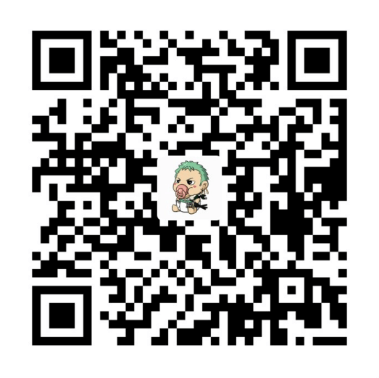
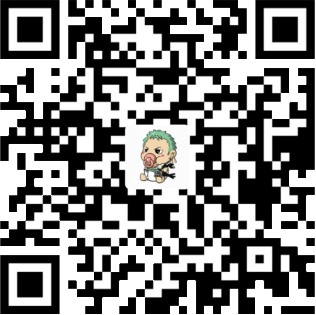
ui调整

diff --git a/css/index.css b/css/index.css
@@ -1,6 +1,22 @@
+* {
+  margin: 0;
+  padding: 0;
+}
+
+html,
+body {
+  height: 100%;
+}
+
+body {
+  padding: 20px;
+  box-sizing: border-box;
+  background: linear-gradient(to right, #D7E6F2, #fff)
+}
+
 #content {
   position: absolute;
-  width: 380px;
+  width: 340px;
   height: 250px;
   top: 50%;
   left: 50%;
@@ -8,12 +24,14 @@
 }
 .img-wrap {
   position: relative;
+  top: 10px;
 }
 
 .msg {
   text-align: center;
 }
-.cola {
+
+/* .cola {
   position: absolute;
   top: -17px;
   right: 62px;
@@ -23,7 +41,7 @@
   position: absolute;
   top: 16px;
   right: 26px;
-}
+} */
 
 .btn-wrap {
   overflow: hidden;

diff --git a/de-weighting.html b/de-weighting.html
@@ -27,7 +27,7 @@
     <!-- <p>富婆~~~ 您还可以赞助一杯冰阔落~~~ 给您鞠个躬先~~~</p> -->
     <p class="msg">打钱~~~ 用一次打一次的那种打~~~</p>
     <div class="img-wrap">
-      <img src="./images/code.png" width="200" alt="收款码">
+      <img src="./images/code.png" width="166" alt="收款码">
       <!-- <img src="./images/IMG_1477.JPG" width="200" alt="冰阔落~" class="cola"> -->
       <img src="./images/cat.jpg" width="166" alt="cat~" class="cat">
     </div>

diff --git a/index.html b/index.html
@@ -27,7 +27,7 @@
     <!-- <p>富婆~~~ 您还可以赞助一杯冰阔落~~~ 给您鞠个躬先~~~</p> -->
     <p class="msg">打钱~~~ 用一次打一次的那种打~~~</p>
     <div class="img-wrap">
-      <img src="./images/code.png" width="200" alt="收款码">
+      <img src="./images/code.png" width="166" alt="收款码">
       <!-- <img src="./images/IMG_1477.JPG" width="200" alt="冰阔落~" class="cola"> -->
       <img src="./images/cat.jpg" width="166" alt="cat~" class="cat">
     </div>

diff --git a/intercept.html b/intercept.html
@@ -27,7 +27,7 @@
     <!-- <p>富婆~~~ 您还可以赞助一杯冰阔落~~~ 给您鞠个躬先~~~</p> -->
     <p class="msg">打钱~~~ 用一次打一次的那种打~~~</p>
     <div class="img-wrap">
-      <img src="./images/code.png" width="200" alt="收款码">
+      <img src="./images/code.png" width="166" alt="收款码">
       <!-- <img src="./images/IMG_1477.JPG" width="200" alt="冰阔落~" class="cola"> -->
       <img src="./images/cat.jpg" width="166" alt="cat~" class="cat">
     </div>
